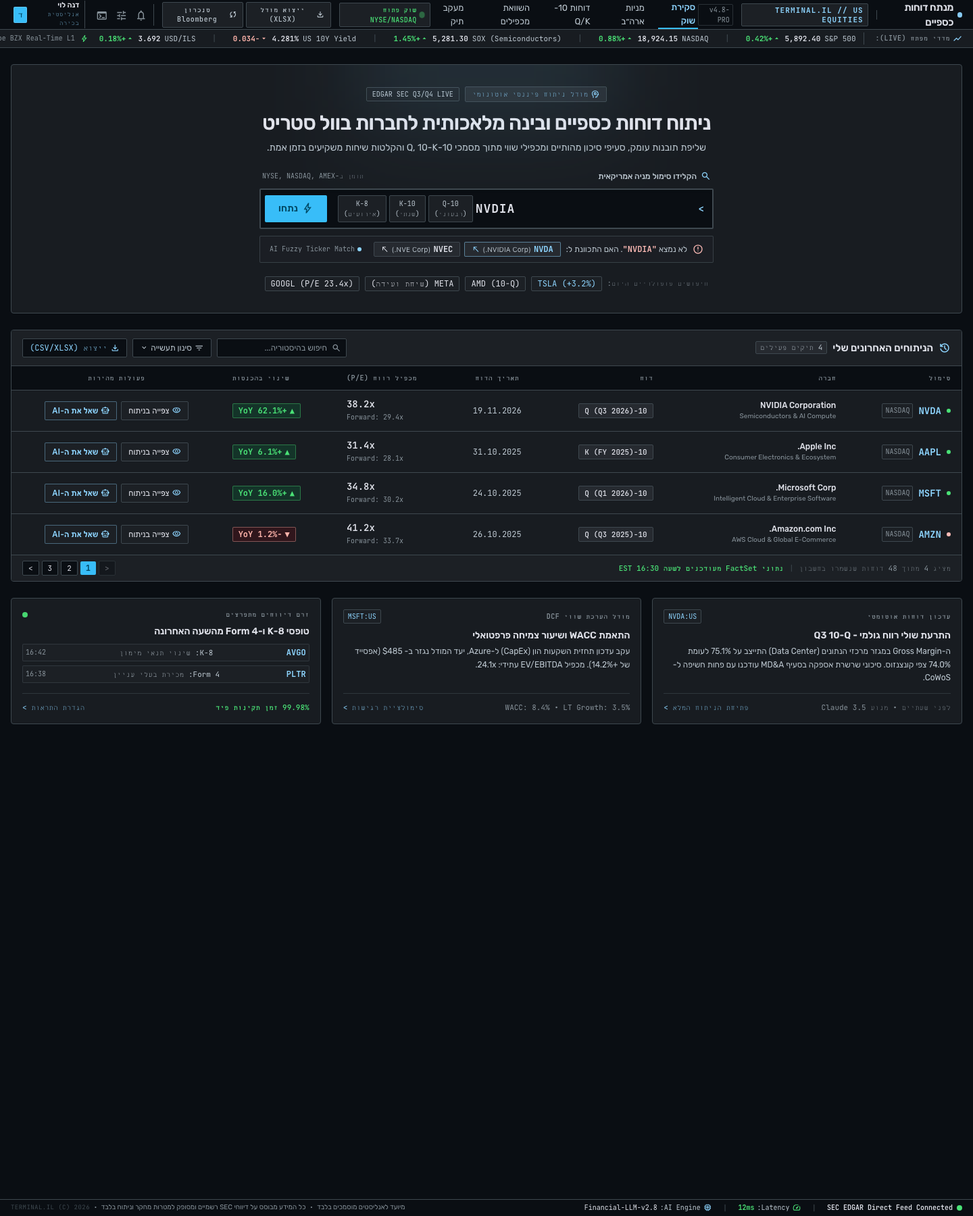
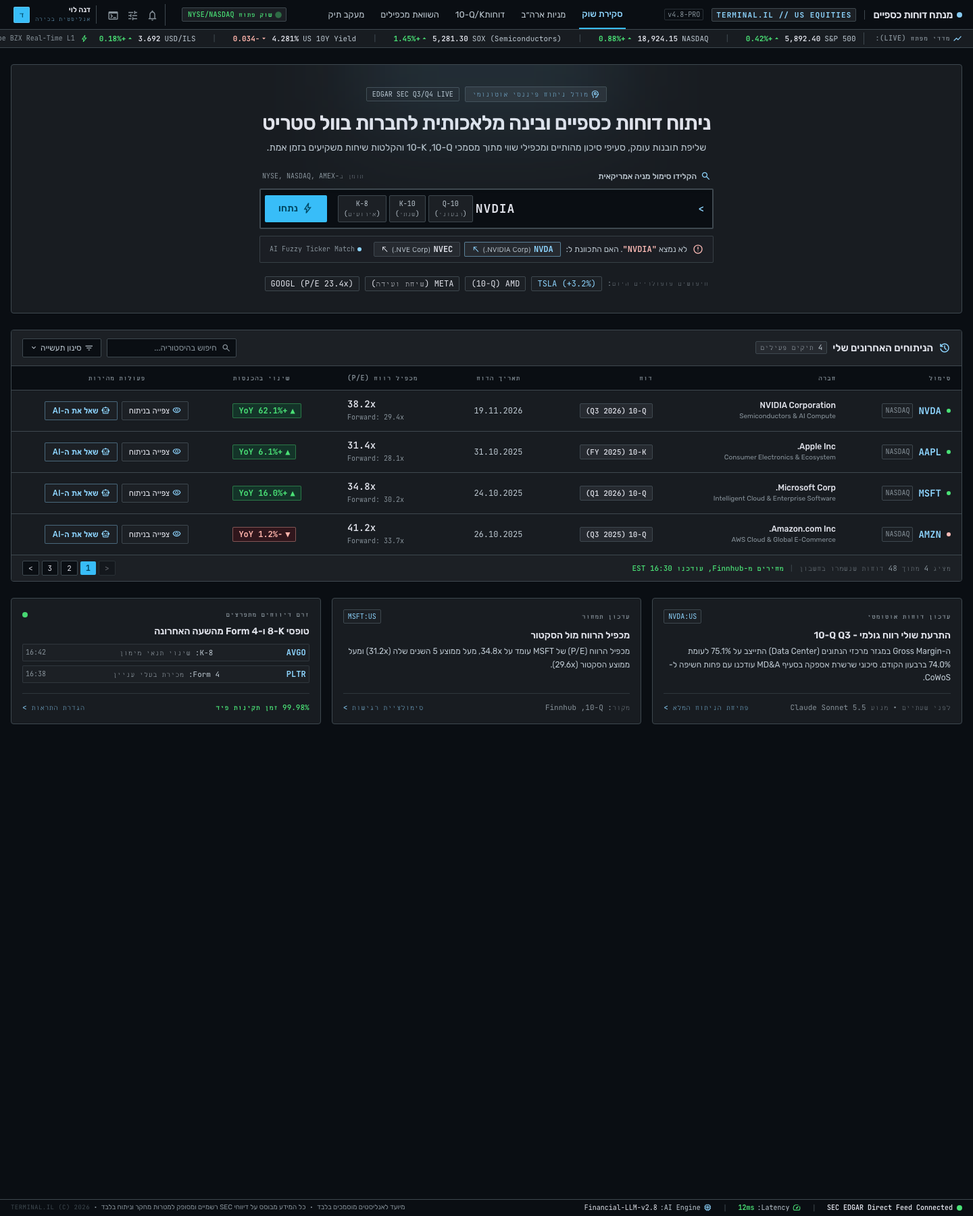
Align Stitch screens with spec: remove buy rating and out-of-scope features, fix 10-Q direction

diff --git a/design/stitch/4-summary.html b/design/stitch/4-summary.html
@@ -158,20 +158,12 @@
 <a class="text-on-surface-variant font-title-sm text-title-sm hover:text-on-surface hover:bg-surface-container-high px-2 py-1 transition-colors duration-150 ease-in-out" href="#">סקירת שוק</a>
 <a class="text-on-surface-variant font-title-sm text-title-sm hover:text-on-surface hover:bg-surface-container-high px-2 py-1 transition-colors duration-150 ease-in-out" href="#">מניות ארה״ב</a>
 <!-- ACTIVE TAB: דוחות 10-Q/K -->
-<a class="border-b-2 border-primary-container text-primary font-title-sm text-title-sm px-2 h-full flex items-center transition-colors duration-150 ease-in-out" href="#">דוחות 10-Q/K</a>
+<a class="border-b-2 border-primary-container text-primary font-title-sm text-title-sm px-2 h-full flex items-center transition-colors duration-150 ease-in-out" href="#">דוחות <bdi>10-Q/K</bdi></a>
 <a class="text-on-surface-variant font-title-sm text-title-sm hover:text-on-surface hover:bg-surface-container-high px-2 py-1 transition-colors duration-150 ease-in-out" href="#">השוואת מכפילים</a>
 <a class="text-on-surface-variant font-title-sm text-title-sm hover:text-on-surface hover:bg-surface-container-high px-2 py-1 transition-colors duration-150 ease-in-out" href="#">מעקב תיק</a>
 </nav>
 <!-- Trailing Actions & Icons -->
 <div class="flex items-center gap-space-sm">
-<button class="hidden sm:flex items-center gap-1 bg-surface-container text-outline hover:text-on-surface border border-outline-variant px-2 py-1 rounded text-body-compact font-body-compact transition-colors">
-<span class="material-symbols-outlined text-[14px]">sync</span>
-<span>סנכרון Bloomberg</span>
-</button>
-<button class="bg-primary-container text-on-primary-fixed font-title-sm text-title-sm font-semibold px-2.5 py-1 rounded flex items-center gap-1 hover:brightness-110 transition-all">
-<span class="material-symbols-outlined text-[15px]">download</span>
-<span>ייצוא מודל (XLSX)</span>
-</button>
 <div class="h-4 w-[1px] bg-outline-variant mx-1"></div>
 <button class="p-1 text-on-surface-variant hover:text-on-surface hover:bg-surface-container rounded transition-colors" title="התראות">
 <span class="material-symbols-outlined text-[18px]">notifications</span>
@@ -193,9 +185,9 @@
 <div class="flex items-center justify-between mb-1">
 <div class="flex items-center gap-2">
 <span class="material-symbols-outlined text-primary text-[20px]">smart_toy</span>
-<h2 class="font-title-sm text-title-sm text-on-surface font-semibold">עוזר מחקר דוחות 10-Q</h2>
+<h2 class="font-title-sm text-title-sm text-on-surface font-semibold">עוזר מחקר דוחות <bdi>10-Q</bdi></h2>
 </div>
-<span class="num-ltr font-label-header text-[10px] bg-surface-container text-primary-container border border-outline-variant px-1.5 py-0.5 rounded">Claude 3.5 Sonnet / SEC</span>
+<span class="num-ltr font-label-header text-[10px] bg-surface-container text-primary-container border border-outline-variant px-1.5 py-0.5 rounded">Claude Sonnet 5.5 / SEC</span>
 </div>
 <div class="flex items-center justify-between text-body-compact font-body-compact text-outline">
 <span class="num-ltr text-[11px] font-mono text-secondary">NVDA:US Q3 2026 Filing Active</span>
@@ -207,15 +199,11 @@
 <div class="grid grid-cols-4 gap-1 mt-space-sm pt-space-xs border-t border-outline-variant">
 <button class="border-r-2 border-primary text-primary bg-surface-container-high font-medium py-1 px-1 text-center font-body-compact text-[11px] flex items-center justify-center gap-0.5">
 <span class="material-symbols-outlined text-[13px]">smart_toy</span>
-<span>עוזר 10-Q</span>
+<span>עוזר <bdi>10-Q</bdi></span>
 </button>
 <button class="text-on-surface-variant hover:text-on-surface hover:bg-surface-container py-1 px-1 text-center font-body-compact text-[11px] flex items-center justify-center gap-0.5">
 <span class="material-symbols-outlined text-[13px]">format_quote</span>
 <span>מקורות</span>
-</button>
-<button class="text-on-surface-variant hover:text-on-surface hover:bg-surface-container py-1 px-1 text-center font-body-compact text-[11px] flex items-center justify-center gap-0.5">
-<span class="material-symbols-outlined text-[13px]">calculate</span>
-<span>סימולציה</span>
 </button>
 <button class="text-on-surface-variant hover:text-on-surface hover:bg-surface-container py-1 px-1 text-center font-body-compact text-[11px] flex items-center justify-center gap-0.5">
 <span class="material-symbols-outlined text-[13px]">history</span>
@@ -263,7 +251,7 @@
 <div class="pt-2 border-t border-outline-variant flex flex-wrap gap-1.5">
 <button class="bg-surface-container-high hover:bg-surface-variant border border-outline-variant px-2 py-0.5 rounded text-[10.5px] text-outline hover:text-primary flex items-center gap-1 transition-colors">
 <span class="material-symbols-outlined text-[12px]">description</span>
-<span>מקור: 10-Q, סעיף MD&amp;A, עמ' 34</span>
+<span>מקור: <bdi>10-Q</bdi>, סעיף MD&amp;A, עמ' 34</span>
 </button>
 <button class="bg-surface-container-high hover:bg-surface-variant border border-outline-variant px-2 py-0.5 rounded text-[10.5px] text-outline hover:text-primary flex items-center gap-1 transition-colors">
 <span class="material-symbols-outlined text-[12px]">record_voice_over</span>
@@ -298,7 +286,7 @@
 <div class="p-space-md border-t border-outline-variant bg-surface-container-low">
 <div class="relative flex items-center bg-surface-container-lowest border border-outline-variant rounded focus-within:border-primary-container focus-within:ring-1 focus-within:ring-primary-container">
 <span class="num-ltr text-primary-container pl-2 font-mono font-bold select-none">&gt;</span>
-<input class="w-full bg-transparent border-0 py-2 px-2 text-body-compact font-body-compact text-on-surface placeholder:text-outline focus:ring-0 focus:outline-none" placeholder="שאלו שאלה על הדוחות או בקשו מודל הערכת שווי..." type="text"/>
+<input class="w-full bg-transparent border-0 py-2 px-2 text-body-compact font-body-compact text-on-surface placeholder:text-outline focus:ring-0 focus:outline-none" placeholder="שאלו שאלה על הדוחות..." type="text"/>
 <div class="flex items-center gap-1 pl-1.5">
 <button class="p-1 text-outline hover:text-on-surface rounded hover:bg-surface-container transition-colors" title="צרף קובץ">
 <span class="material-symbols-outlined text-[17px]">attach_file</span>
@@ -345,7 +333,7 @@
 <div class="flex items-center gap-3 text-body-compact font-body-compact text-on-surface-variant mt-0.5">
 <span class="flex items-center gap-1 text-primary">
 <span class="material-symbols-outlined text-[15px]">verified</span>
-<span>דוח תקופתי 10-Q (רבעון 3 2026)</span>
+<span>דוח תקופתי <bdi>10-Q</bdi> (רבעון 3 2026)</span>
 </span>
 <span class="text-outline">•</span>
 <span>פורסם בתאריך: <span class="num-ltr">19.11.2026, 16:01 EST</span></span>
@@ -369,10 +357,6 @@
 </div>
 <!-- Quick Action Toolbar -->
 <div class="flex items-center gap-1.5">
-<button class="bg-surface-container border border-outline-variant hover:border-primary-container text-on-surface hover:text-primary px-2.5 py-1.5 rounded text-body-compact font-body-compact flex items-center gap-1 transition-all" title="הורד דוח מלא">
-<span class="material-symbols-outlined text-[15px]">file_download</span>
-<span>ייצוא מודל (XLSX)</span>
-</button>
 <button class="bg-surface-container border border-outline-variant hover:border-primary-container text-on-surface hover:text-primary px-2.5 py-1.5 rounded text-body-compact font-body-compact flex items-center gap-1 transition-all">
 <span class="material-symbols-outlined text-[15px]">compare_arrows</span>
 <span>השוואת עמיתים</span>
@@ -409,13 +393,6 @@
 <span class="text-[10.5px] text-outline block">רווח למניה בדילול (EPS Diluted)</span>
 <span class="num-ltr font-bold text-[14px] text-on-surface">$0.81</span>
 </div>
-<div class="bg-surface-container px-2.5 py-1 rounded border border-outline-variant text-right">
-<span class="text-[10.5px] text-outline block">דירוג קונצנזוס (Analyst Consensus)</span>
-<span class="text-secondary font-bold text-[13px] flex items-center justify-between">
-<span>קנייה חזקה</span>
-<span class="num-ltr text-[11px] text-outline font-normal">(54/58)</span>
-</span>
-</div>
 </div>
 </section>
 <!-- 2. SECTION: שלוש נקודות לתשומת לב (Key Takeaways) -->
@@ -448,7 +425,7 @@
 <div class="mt-space-md pt-2 border-t border-outline-variant flex items-center justify-between text-[11px]">
 <span class="text-outline flex items-center gap-1 hover:text-primary cursor-pointer">
 <span class="material-symbols-outlined text-[13px]">bookmark</span>
-                מקור: 10-Q, סעיף 2, עמ' 31
+                מקור: <bdi>10-Q</bdi>, סעיף 2, עמ' 31
               </span>
 <span class="material-symbols-outlined text-secondary text-[16px]">trending_up</span>
 </div>
@@ -473,7 +450,7 @@
 <div class="mt-space-md pt-2 border-t border-outline-variant flex items-center justify-between text-[11px]">
 <span class="text-outline flex items-center gap-1 hover:text-primary cursor-pointer">
 <span class="material-symbols-outlined text-[13px]">bookmark</span>
-                מקור: 10-Q, סעיף 2, עמ' 34
+                מקור: <bdi>10-Q</bdi>, סעיף 2, עמ' 34
               </span>
 <span class="material-symbols-outlined text-error text-[16px]">trending_down</span>
 </div>
@@ -498,7 +475,7 @@
 <div class="mt-space-md pt-2 border-t border-outline-variant flex items-center justify-between text-[11px]">
 <span class="text-outline flex items-center gap-1 hover:text-primary cursor-pointer">
 <span class="material-symbols-outlined text-[13px]">bookmark</span>
-                מקור: 10-Q, מאזן, עמ' 4
+                מקור: <bdi>10-Q</bdi>, מאזן, עמ' 4
               </span>
 <span class="material-symbols-outlined text-tertiary-container text-[16px]">warning</span>
 </div>
@@ -513,7 +490,7 @@
 <h2 class="font-headline-md text-title-sm text-on-surface font-semibold">יחסים פיננסיים (Financial Ratios &amp; Margins)</h2>
 </div>
 <div class="flex items-center gap-2">
-<span class="text-[11px] text-outline font-label-header">SOURCE: SEC 10-Q STANDARDIZED GAAP / NON-GAAP</span>
+<span class="text-[11px] text-outline font-label-header">SOURCE: SEC <bdi>10-Q</bdi> STANDARDIZED GAAP / NON-GAAP</span>
 <button class="text-outline hover:text-on-surface p-1 rounded hover:bg-surface-container" title="הורד נתונים">
 <span class="material-symbols-outlined text-[15px]">file_download</span>
 </button>
@@ -822,7 +799,7 @@
 <div class="flex items-center justify-between text-[11px] text-outline mb-2">
 <span class="num-ltr font-mono text-primary flex items-center gap-1">
 <span class="material-symbols-outlined text-[13px]">gavel</span>
-                  SEC 8-K Filing
+                  SEC <bdi>8-K</bdi> Filing
                 </span>
 <span class="num-ltr">19.11.2026, 17:05 EST</span>
 </div>

diff --git a/design/stitch/2-home.html b/design/stitch/2-home.html
@@ -155,7 +155,7 @@
 <nav class="hidden xl:flex items-center gap-space-lg h-full">
 <a class="border-b-2 border-primary-container text-primary font-title-sm text-body-default h-full flex items-center px-1 font-medium transition-colors duration-150" href="#">סקירת שוק</a>
 <a class="text-on-surface-variant font-title-sm text-body-default h-full flex items-center px-1 hover:text-on-surface transition-colors duration-150" href="#">מניות ארה״ב</a>
-<a class="text-on-surface-variant font-title-sm text-body-default h-full flex items-center px-1 hover:text-on-surface transition-colors duration-150" href="#">דוחות 10-Q/K</a>
+<a class="text-on-surface-variant font-title-sm text-body-default h-full flex items-center px-1 hover:text-on-surface transition-colors duration-150" href="#">דוחות <bdi>10-Q/K</bdi></a>
 <a class="text-on-surface-variant font-title-sm text-body-default h-full flex items-center px-1 hover:text-on-surface transition-colors duration-150" href="#">השוואת מכפילים</a>
 <a class="text-on-surface-variant font-title-sm text-body-default h-full flex items-center px-1 hover:text-on-surface transition-colors duration-150" href="#">מעקב תיק</a>
 </nav>
@@ -168,14 +168,6 @@
 </div>
 <!-- Quick Export / Bloomberg Actions -->
 <div class="hidden md:flex items-center gap-space-xs">
-<button class="px-2 py-1 bg-surface-container text-on-surface-variant hover:text-on-surface hover:bg-surface-container-high border border-outline-variant rounded text-label-header font-data-ticker text-[10px] flex items-center gap-1 transition-colors duration-150">
-<span class="material-symbols-outlined text-[13px]">file_download</span>
-<span>ייצוא מודל (XLSX)</span>
-</button>
-<button class="px-2 py-1 bg-surface-container text-on-surface-variant hover:text-on-surface hover:bg-surface-container-high border border-outline-variant rounded text-label-header font-data-ticker text-[10px] flex items-center gap-1 transition-colors duration-150">
-<span class="material-symbols-outlined text-[13px]">sync</span>
-<span>סנכרון Bloomberg</span>
-</button>
 </div>
 <!-- System Icons -->
 <div class="flex items-center gap-1 text-on-surface-variant border-r border-outline-variant pr-space-sm">
@@ -280,7 +272,7 @@
         ניתוח דוחות כספיים ובינה מלאכותית לחברות בוול סטריט
       </h2>
 <p class="font-body-default text-on-surface-variant max-w-2xl mb-6 text-sm">
-        שליפת תובנות עומק, סעיפי סיכון מהותיים ומכפילי שווי מתוך מסמכי 10-Q, 10-K והקלטות שיחות משקיעים בזמן אמת.
+        שליפת תובנות עומק, סעיפי סיכון מהותיים ומכפילי שווי מתוך מסמכי <bdi>10-Q</bdi>, <bdi>10-K</bdi> והקלטות שיחות משקיעים בזמן אמת.
       </p>
 <!-- Main Search Box Container -->
 <div class="w-full max-w-2xl flex flex-col items-stretch gap-2.5">
@@ -342,7 +334,7 @@
 <div class="flex flex-wrap items-center justify-center gap-2 mt-5 text-xs text-on-surface-variant">
 <span class="font-label-header text-[10px] text-outline uppercase tracking-wider">חיפושים פופולריים היום:</span>
 <a class="px-2 py-0.5 rounded bg-surface-container border border-outline-variant hover:border-primary font-data-ticker text-xs text-primary transition-colors" href="#">TSLA (+3.2%)</a>
-<a class="px-2 py-0.5 rounded bg-surface-container border border-outline-variant hover:border-primary font-data-ticker text-xs text-on-surface transition-colors" href="#">AMD (10-Q)</a>
+<a class="px-2 py-0.5 rounded bg-surface-container border border-outline-variant hover:border-primary font-data-ticker text-xs text-on-surface transition-colors" href="#">AMD (<bdi>10-Q</bdi>)</a>
 <a class="px-2 py-0.5 rounded bg-surface-container border border-outline-variant hover:border-primary font-data-ticker text-xs text-on-surface transition-colors" href="#">META (שיחת ועידה)</a>
 <a class="px-2 py-0.5 rounded bg-surface-container border border-outline-variant hover:border-primary font-data-ticker text-xs text-on-surface transition-colors" href="#">GOOGL (P/E 23.4x)</a>
 </div>
@@ -373,10 +365,6 @@
 <span class="material-symbols-outlined text-[12px]">expand_more</span>
 </button>
 <!-- Export Action -->
-<button class="h-7 px-2.5 bg-surface-container-lowest hover:bg-surface-container-high border border-outline-variant rounded font-data-ticker text-xs text-primary hover:text-primary-fixed flex items-center gap-1 transition-colors">
-<span class="material-symbols-outlined text-[14px]">download</span>
-<span>ייצוא (CSV/XLSX)</span>
-</button>
 </div>
 </div>
 <!-- High-Density Professional Data Table -->
@@ -412,7 +400,7 @@
 <!-- Filing Type -->
 <td class="py-2.5 px-4 whitespace-nowrap">
 <span class="inline-flex items-center gap-1 px-2 py-0.5 rounded bg-surface-container-high border border-outline-variant font-data-ticker text-[11px] text-on-surface font-medium dir-ltr">
-                  10-Q (Q3 2026)
+                  <bdi>10-Q</bdi> (Q3 2026)
                 </span>
 </td>
 <!-- Filing Date -->
@@ -463,7 +451,7 @@
 <!-- Filing Type -->
 <td class="py-2.5 px-4 whitespace-nowrap">
 <span class="inline-flex items-center gap-1 px-2 py-0.5 rounded bg-surface-container-high border border-outline-variant font-data-ticker text-[11px] text-on-surface font-medium dir-ltr">
-                  10-K (FY 2025)
+                  <bdi>10-K</bdi> (FY 2025)
                 </span>
 </td>
 <!-- Filing Date -->
@@ -514,7 +502,7 @@
 <!-- Filing Type -->
 <td class="py-2.5 px-4 whitespace-nowrap">
 <span class="inline-flex items-center gap-1 px-2 py-0.5 rounded bg-surface-container-high border border-outline-variant font-data-ticker text-[11px] text-on-surface font-medium dir-ltr">
-                  10-Q (Q1 2026)
+                  <bdi>10-Q</bdi> (Q1 2026)
                 </span>
 </td>
 <!-- Filing Date -->
@@ -565,7 +553,7 @@
 <!-- Filing Type -->
 <td class="py-2.5 px-4 whitespace-nowrap">
 <span class="inline-flex items-center gap-1 px-2 py-0.5 rounded bg-surface-container-high border border-outline-variant font-data-ticker text-[11px] text-on-surface font-medium dir-ltr">
-                  10-Q (Q3 2025)
+                  <bdi>10-Q</bdi> (Q3 2025)
                 </span>
 </td>
 <!-- Filing Date -->
@@ -606,7 +594,7 @@
 <div class="flex items-center gap-2">
 <span>מציג 4 מתוך 48 דוחות שנשמרו בחשבון</span>
 <span class="text-outline-variant">|</span>
-<span class="text-secondary font-medium">נתוני FactSet מעודכנים לשעה 16:30 EST</span>
+<span class="text-secondary font-medium">מחירים מ-Finnhub, עודכנו 16:30 EST</span>
 </div>
 <div class="flex items-center gap-1 font-data-ticker">
 <button class="px-2 py-0.5 rounded border border-outline-variant bg-surface-container-lowest text-on-surface disabled:opacity-40" disabled="">&lt;</button>
@@ -626,13 +614,13 @@
 <span class="font-label-header text-[10px] text-outline font-semibold uppercase tracking-wider">עדכון דוחות אוטומטי</span>
 <span class="font-data-ticker text-[10px] text-primary px-1.5 py-0.5 rounded bg-surface-container border border-outline-variant">NVDA:US</span>
 </div>
-<h4 class="font-headline-md text-sm text-on-surface font-semibold mb-1">התרעת שולי רווח גולמי - Q3 10-Q</h4>
+<h4 class="font-headline-md text-sm text-on-surface font-semibold mb-1">התרעת שולי רווח גולמי - Q3 <bdi>10-Q</bdi></h4>
 <p class="font-body-compact text-xs text-on-surface-variant leading-relaxed">
-            ה-Gross Margin במגזר מרכזי הנתונים (Data Center) התייצב על 75.1% לעומת 74.0% צפי קונצנזוס. סיכוני שרשרת אספקה בסעיף MD&amp;A עודכנו עם פחות חשיפה ל-CoWoS.
+            ה-Gross Margin במגזר מרכזי הנתונים (Data Center) התייצב על 75.1% לעומת 74.0% ברבעון הקודם. סיכוני שרשרת אספקה בסעיף MD&amp;A עודכנו עם פחות חשיפה ל-CoWoS.
           </p>
 </div>
 <div class="pt-3 mt-3 border-t border-outline-variant/60 flex items-center justify-between text-[11px] font-label-header">
-<span class="text-outline">לפני שעתיים • מנוע Claude 3.5</span>
+<span class="text-outline">לפני שעתיים • מנוע Claude Sonnet 5.5</span>
 <a class="text-primary hover:underline flex items-center gap-0.5" href="#">פתיחת הניתוח המלא &gt;</a>
 </div>
 </div>
@@ -640,16 +628,16 @@
 <div class="rounded-lg bg-surface-container-low border border-outline-variant p-4 flex flex-col justify-between hover:border-outline transition-colors">
 <div>
 <div class="flex items-center justify-between mb-2">
-<span class="font-label-header text-[10px] text-outline font-semibold uppercase tracking-wider">מודל הערכת שווי DCF</span>
+<span class="font-label-header text-[10px] text-outline font-semibold uppercase tracking-wider">עדכון תמחור</span>
 <span class="font-data-ticker text-[10px] text-primary px-1.5 py-0.5 rounded bg-surface-container border border-outline-variant">MSFT:US</span>
 </div>
-<h4 class="font-headline-md text-sm text-on-surface font-semibold mb-1">התאמת WACC ושיעור צמיחה פרפטואלי</h4>
+<h4 class="font-headline-md text-sm text-on-surface font-semibold mb-1">מכפיל הרווח מול הסקטור</h4>
 <p class="font-body-compact text-xs text-on-surface-variant leading-relaxed">
-            עקב עדכון תחזית השקעות הון (CapEx) ל-Azure, יעד המודל נגזר ב- $485 (אפסייד של +14.2%). מכפיל EV/EBITDA עתידי: 24.1x.
+            מכפיל הרווח (P/E) של MSFT עומד על 34.8x, מעל ממוצע 5 השנים שלה (31.2x) ומעל ממוצע הסקטור (29.6x).
           </p>
 </div>
 <div class="pt-3 mt-3 border-t border-outline-variant/60 flex items-center justify-between text-[11px] font-label-header">
-<span class="text-outline">WACC: 8.4% • LT Growth: 3.5%</span>
+<span class="text-outline">מקור: <bdi>10-Q</bdi>, Finnhub</span>
 <a class="text-primary hover:underline flex items-center gap-0.5" href="#">סימולציית רגישות &gt;</a>
 </div>
 </div>
@@ -660,7 +648,7 @@
 <span class="font-label-header text-[10px] text-outline font-semibold uppercase tracking-wider">זרם דיווחים מתפרצים</span>
 <span class="w-2 h-2 rounded-full bg-secondary animate-pulse"></span>
 </div>
-<h4 class="font-headline-md text-sm text-on-surface font-semibold mb-1">טופסי 8-K ו-Form 4 מהשעה האחרונה</h4>
+<h4 class="font-headline-md text-sm text-on-surface font-semibold mb-1">טופסי <bdi>8-K</bdi> ו-Form 4 מהשעה האחרונה</h4>
 <div class="space-y-1.5 font-data-ticker text-xs mt-2">
 <div class="flex items-center justify-between bg-surface-container p-1 rounded border border-outline-variant/60">
 <span class="text-primary font-bold">AVGO</span>

diff --git a/design/stitch/3-confirm-wait.html b/design/stitch/3-confirm-wait.html
@@ -161,7 +161,7 @@
 <a class="text-on-surface-variant font-title-sm text-title-sm hover:text-on-surface hover:bg-surface-container-high transition-colors duration-150 px-space-xs py-1" href="#">סקירת שוק</a>
 <a class="text-on-surface-variant font-title-sm text-title-sm hover:text-on-surface hover:bg-surface-container-high transition-colors duration-150 px-space-xs py-1" href="#">מניות ארה״ב</a>
 <a class="border-b-2 border-primary-container text-primary font-title-sm text-title-sm transition-colors duration-150 px-space-xs py-2 flex items-center gap-1 font-medium" href="#">
-<span>דוחות 10-Q/K</span>
+<span>דוחות <bdi>10-Q/K</bdi></span>
 <span class="inline-block w-1.5 h-1.5 rounded-full bg-primary-container"></span>
 </a>
 <a class="text-on-surface-variant font-title-sm text-title-sm hover:text-on-surface hover:bg-surface-container-high transition-colors duration-150 px-space-xs py-1" href="#">השוואת מכפילים</a>
@@ -185,14 +185,6 @@
 </div>
 <!-- Actions from JSON: Bloomberg Sync & Export Model -->
 <div class="flex items-center gap-space-xs">
-<button class="hidden xl:inline-flex items-center gap-1 px-2.5 py-1 text-on-surface-variant border border-outline-variant hover:border-outline hover:text-on-surface bg-surface-container-low font-body-compact text-body-compact rounded transition-colors duration-150">
-<span class="material-symbols-outlined text-[14px]">sync</span>
-<span>סנכרון Bloomberg</span>
-</button>
-<button class="hidden xl:inline-flex items-center gap-1 px-2.5 py-1 text-on-primary-container bg-primary-container font-body-compact text-body-compact font-semibold rounded hover:brightness-110 transition-colors duration-150">
-<span class="material-symbols-outlined text-[14px]">file_download</span>
-<span>ייצוא מודל (XLSX)</span>
-</button>
 <!-- Icon actions: notifications, tune, terminal -->
 <div class="flex items-center border-r border-outline-variant pr-space-xs gap-0.5">
 <button class="p-1 text-on-surface-variant hover:text-on-surface hover:bg-surface-container-high transition-colors rounded" title="התראות">
@@ -239,7 +231,7 @@
 </div>
 <div class="hidden sm:flex items-center gap-space-md text-[10px] text-outline font-label-header">
 <span>SEC ACCESSION PIPELINE: SYNCED</span>
-<span>EDGAR 10-Q ENGINE ACTIVE</span>
+<span>EDGAR <bdi>10-Q</bdi> ENGINE ACTIVE</span>
 </div>
 </div>
 <!-- ========================================================================= -->
@@ -362,7 +354,7 @@
 <span class="font-data-ticker text-data-ticker text-outline" dir="ltr">1.42s</span>
 </div>
 <p class="font-body-compact text-body-compact text-on-surface-variant mt-1" dir="rtl">
-                קובץ 10-Q מקורי נסרק ואומת מול EDGAR Accession 
+                קובץ <bdi>10-Q</bdi> מקורי נסרק ואומת מול EDGAR Accession 
                 <span class="font-data-table-cell text-data-table-cell text-primary font-mono inline-block mx-1" dir="ltr">#0001045810-26-000045</span>
 <span class="font-data-table-cell text-data-table-cell text-outline" dir="ltr">(2026-11-19 16:04:12 EST)</span>.
               </p>
@@ -395,7 +387,7 @@
 <div class="bg-primary-container h-full rounded-full transition-all duration-300 w-[60%] shadow-[0_0_8px_#38bdf8]"></div>
 </div>
 <p class="font-body-compact text-body-compact text-on-surface-variant">
-                מחשב רווחיות גולמית, שיעור תפעולי, הכנסות דאטה-סנטר וערכי <span class="font-data-table-cell text-data-table-cell text-primary font-mono" dir="ltr">P/E TTM</span>. סנכרון מקבילי עם מודל קונצנזוס FactSet.
+                מחשב רווחיות גולמית, שיעור תפעולי, הכנסות דאטה-סנטר וערכי <span class="font-data-table-cell text-data-table-cell text-primary font-mono" dir="ltr">P/E TTM</span>.
               </p>
 </div>
 </div>
@@ -417,7 +409,7 @@
 <span class="font-data-ticker text-data-ticker text-outline" dir="ltr">QUEUED</span>
 </div>
 <p class="font-body-compact text-body-compact text-outline mt-1">
-                סריקת חוטי Wire: Reuters, Bloomberg ודוחות 8-K להערכת סנטימנט מהותי ואירועי פוסט-דיווח.
+                סריקת חוטי Wire: Reuters, Bloomberg ודוחות <bdi>8-K</bdi> להערכת סנטימנט מהותי ואירועי פוסט-דיווח.
               </p>
 </div>
 </div>

diff --git a/design/stitch/1-login.html b/design/stitch/1-login.html
@@ -215,7 +215,7 @@
           </h1>
 </div>
 <p class="text-on-surface-variant font-body-default text-body-default leading-relaxed">
-          דוחות 10-Q ו-10-K של חברות אמריקאיות, בעברית, עם מקור לכל מספר ומודלים פיננסיים בזמן אמת.
+          דוחות <bdi>10-Q</bdi> ו-<bdi>10-K</bdi> של חברות אמריקאיות, בעברית, עם מקור לכל מספר ומודלים פיננסיים בזמן אמת.
         </p>
 </div>
 <!-- Login Form Module -->

diff --git a/design/stitch/README.md b/design/stitch/README.md
@@ -8,3 +8,9 @@
 4. עמוד הסיכום: `4-summary`
 
 מערכת העיצוב: Obsidian Terminal. סגנון כהה של מסוף מסחר, ממשק מימין לשמאל, מספרים משמאל לימין, ירוק עם חץ למעלה ואדום עם חץ למטה.
+
+## תיקונים אחרי Stitch
+Stitch הוסיף כמה דברים שסותרים את האפיון. הם הוסרו מקובצי ה-HTML:
+1. דירוג אנליסטים "קנייה חזקה": המוצר לא נותן המלצות קנייה או מכירה.
+2. כפתורים שלא באפיון: סנכרון Bloomberg, ייצוא לאקסל, סימולציה, מודל DCF.
+3. שם המודל עודכן ל-Claude Sonnet 5.5, ושמות הדוחות (10-Q, 10-K, 8-K) מוצגים תמיד משמאל לימין.
